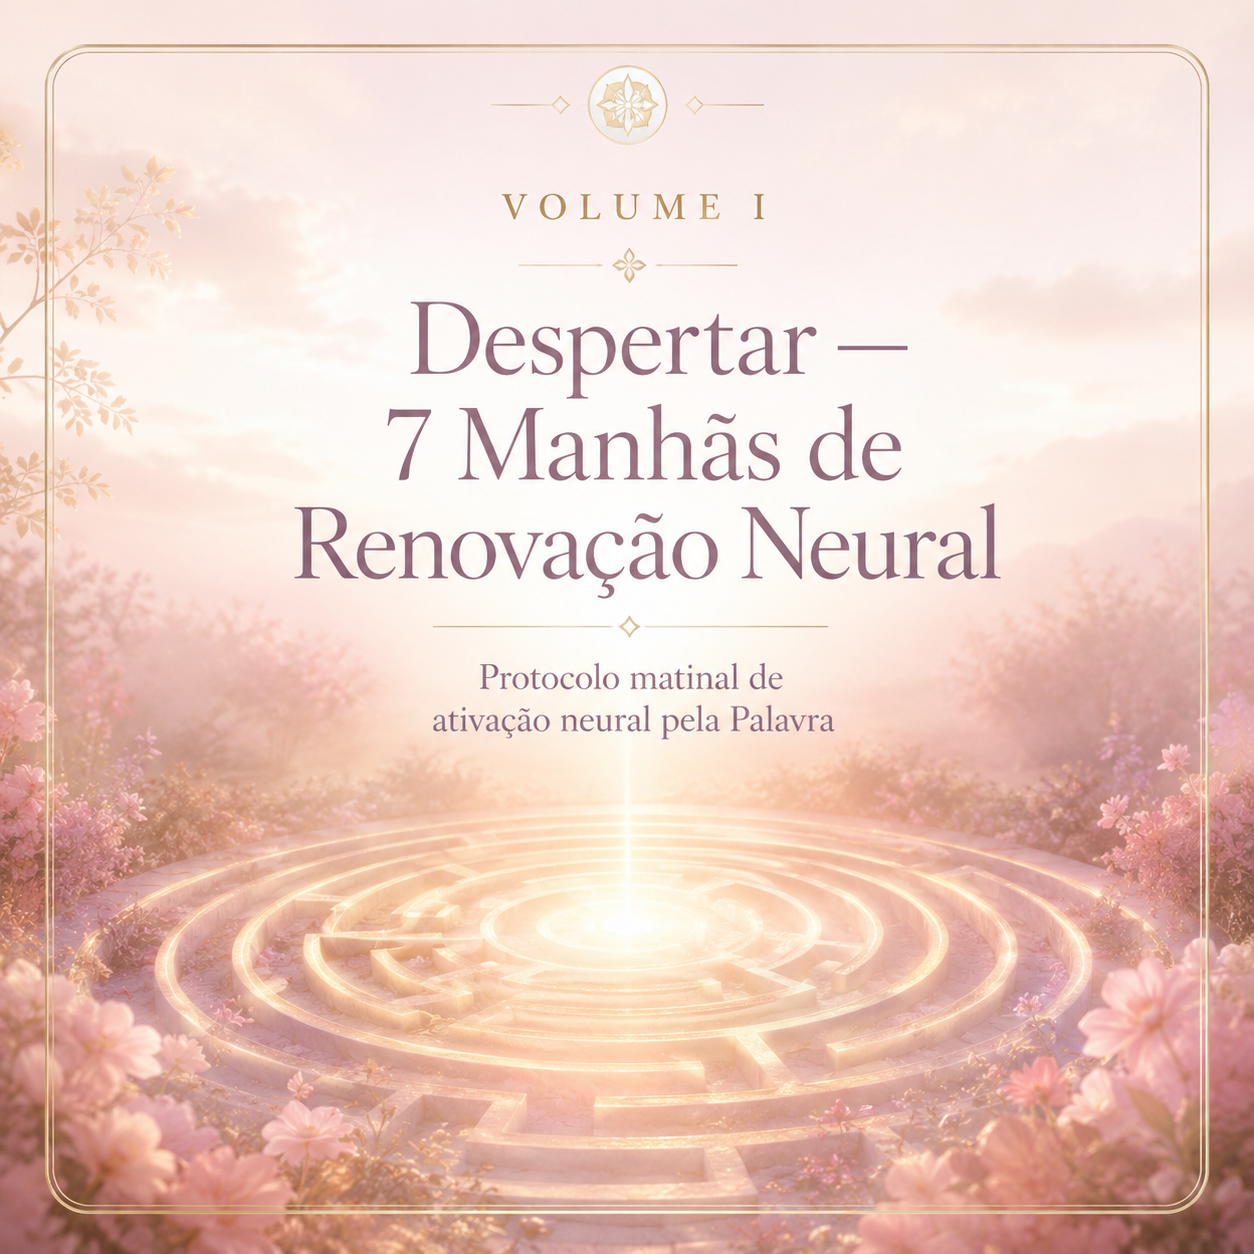
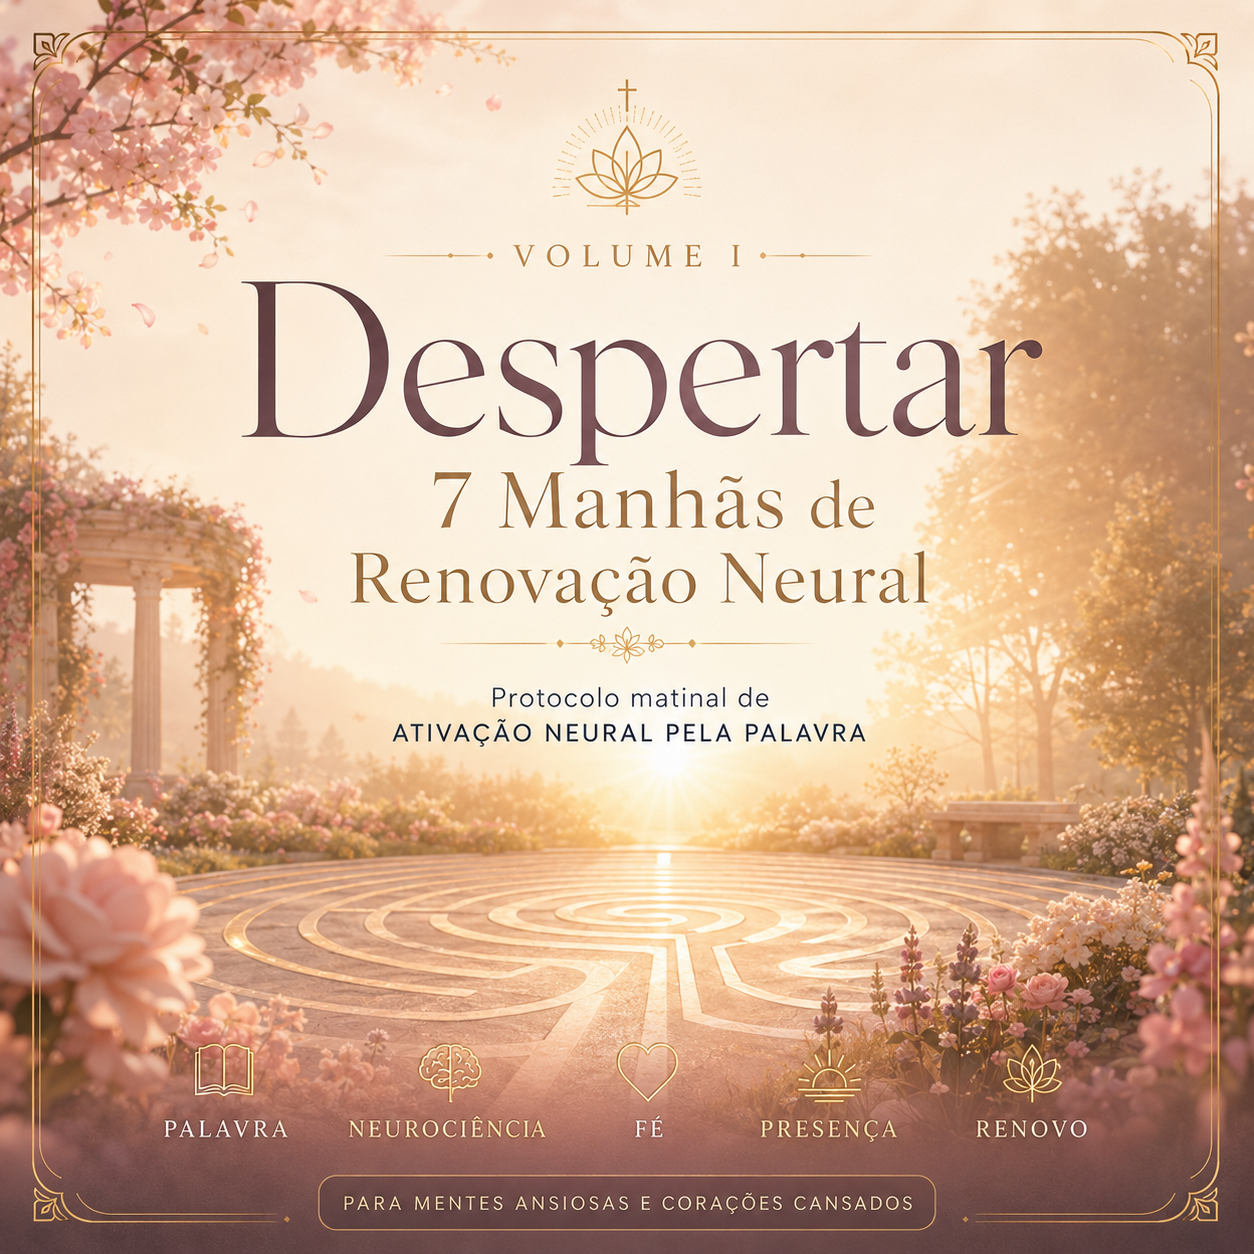
fix: mobile responsiveness — safe-area, stacking cards, volume cover
- Add viewport-fit=cover for notched iPhones
- BottomNav/MiniPlayer respect safe-area-inset-bottom
- "Próximo passo" cards stack vertically on mobile with full-width CTA
- Volume covers use aspect-[4/5] on mobile instead of square
- Update volume 1 cover image

diff --git a/src/routes/app.index.tsx b/src/routes/app.index.tsx
@@ -31,23 +31,25 @@ function PazHome() {
   return (
     <>
       {/* Continuar jornada */}
-      <div className="mt-5 rdp-fade-up rdp-light-card rounded-3xl p-5">
-        <div className="flex items-center gap-4">
-          <div className="grid h-12 w-12 shrink-0 place-items-center rounded-2xl border border-[color:var(--gold-warm)]/40 bg-white/70 text-[color:var(--gold-warm)]">
-            <Sparkles className="h-6 w-6" />
-          </div>
-          <div className="min-w-0 flex-1">
-            <p className="text-[10px] uppercase tracking-[0.22em] text-[color:var(--gold-warm)]">Próximo passo</p>
-            <p className="mt-0.5 truncate font-display text-lg text-[color:var(--deep-purple)]">
-              Olá{firstName ? `, ${firstName}` : ""} · <span className="italic text-[color:var(--amethyst)]">{arche.name}</span>
-            </p>
-            <p className="mt-0.5 text-[13px] text-[color:var(--amethyst)]">
-              Continue por <strong className="text-[color:var(--deep-purple)]">{nextTurno === "manha" ? "Volume I — Despertar" : "Volume II — Repouso"}</strong>
-            </p>
+      <div className="mt-5 rdp-fade-up rdp-light-card rounded-3xl p-4 sm:p-5">
+        <div className="flex flex-col gap-3 sm:flex-row sm:items-center sm:gap-4">
+          <div className="flex items-center gap-3 sm:gap-4 min-w-0 flex-1">
+            <div className="grid h-10 w-10 sm:h-12 sm:w-12 shrink-0 place-items-center rounded-2xl border border-[color:var(--gold-warm)]/40 bg-white/70 text-[color:var(--gold-warm)]">
+              <Sparkles className="h-5 w-5 sm:h-6 sm:w-6" />
+            </div>
+            <div className="min-w-0 flex-1">
+              <p className="text-[10px] uppercase tracking-[0.22em] text-[color:var(--gold-warm)]">Próximo passo</p>
+              <p className="mt-0.5 truncate font-display text-base sm:text-lg text-[color:var(--deep-purple)]">
+                Olá{firstName ? `, ${firstName}` : ""} · <span className="italic text-[color:var(--amethyst)]">{arche.name}</span>
+              </p>
+              <p className="mt-0.5 text-[12px] sm:text-[13px] text-[color:var(--amethyst)]">
+                Continue por <strong className="text-[color:var(--deep-purple)]">{nextTurno === "manha" ? "Volume I — Despertar" : "Volume II — Repouso"}</strong>
+              </p>
+            </div>
           </div>
           <button
             onClick={() => navigate({ to: "/app/volume/$turno", params: { turno: nextTurno } })}
-            className="inline-flex items-center gap-1.5 rounded-full bg-gradient-to-br from-[#E8C9A0] to-[#C9A876] px-4 py-2.5 text-[13px] font-semibold text-[#2C1F0B] shadow-[0_6px_20px_-8px_rgba(201,168,118,0.55)] hover:brightness-110"
+            className="inline-flex w-full sm:w-auto items-center justify-center gap-1.5 rounded-full bg-gradient-to-br from-[#E8C9A0] to-[#C9A876] px-4 py-2.5 text-[13px] font-semibold text-[#2C1F0B] shadow-[0_6px_20px_-8px_rgba(201,168,118,0.55)] hover:brightness-110"
           >
             Iniciar <ChevronRight className="h-4 w-4" />
           </button>
@@ -103,7 +105,7 @@ function VolumeCard({ to, img, eyebrow, title, subtitle, icon, tone, done }: {
       to="/app/volume/$turno" params={{ turno: to }}
       className="group block overflow-hidden rounded-3xl rdp-light-card rdp-light-card-hover rdp-fade-up"
     >
-      <div className="relative aspect-square w-full overflow-hidden">
+      <div className="relative aspect-[4/5] sm:aspect-square w-full overflow-hidden">
         <img src={img} alt={title} width={1024} height={1024} loading="lazy"
           className="h-full w-full object-cover transition duration-700 group-hover:scale-[1.04]" />
         <div className="absolute inset-0 bg-gradient-to-t from-black/30 via-transparent to-transparent" />

diff --git a/src/routes/app.volume.$turno.tsx b/src/routes/app.volume.$turno.tsx
@@ -106,21 +106,23 @@ function VolumePage() {
       </div>
 
       {/* Próximo */}
-      <div className="mt-6 rdp-light-card rounded-3xl p-5 rdp-fade-up">
-        <div className="flex items-center gap-4">
-          <div className="grid h-12 w-12 shrink-0 place-items-center rounded-2xl border border-[color:var(--gold-warm)]/40 bg-white/70 text-[color:var(--gold-warm)]">
-            {isMorning ? <Sun className="h-6 w-6" /> : <Moon className="h-6 w-6" />}
-          </div>
-          <div className="min-w-0 flex-1">
-            <p className="text-[10px] uppercase tracking-[0.22em] text-[color:var(--gold-warm)]">Próximo passo</p>
-            <p className="mt-0.5 truncate font-display text-lg text-[color:var(--deep-purple)]">
-              Dia {nextDay.day} — {nextDay.theme}
-            </p>
-            <p className="mt-0.5 text-[12px] text-[color:var(--amethyst)]">{nextDay.subtitle}</p>
+      <div className="mt-6 rdp-light-card rounded-3xl p-4 sm:p-5 rdp-fade-up">
+        <div className="flex flex-col gap-3 sm:flex-row sm:items-center sm:gap-4">
+          <div className="flex items-center gap-3 sm:gap-4 min-w-0 flex-1">
+            <div className="grid h-10 w-10 sm:h-12 sm:w-12 shrink-0 place-items-center rounded-2xl border border-[color:var(--gold-warm)]/40 bg-white/70 text-[color:var(--gold-warm)]">
+              {isMorning ? <Sun className="h-5 w-5 sm:h-6 sm:w-6" /> : <Moon className="h-5 w-5 sm:h-6 sm:w-6" />}
+            </div>
+            <div className="min-w-0 flex-1">
+              <p className="text-[10px] uppercase tracking-[0.22em] text-[color:var(--gold-warm)]">Próximo passo</p>
+              <p className="mt-0.5 truncate font-display text-base sm:text-lg text-[color:var(--deep-purple)]">
+                Dia {nextDay.day} — {nextDay.theme}
+              </p>
+              <p className="mt-0.5 text-[12px] text-[color:var(--amethyst)]">{nextDay.subtitle}</p>
+            </div>
           </div>
           <button
             onClick={() => setOpenDay(nextDay.day)}
-            className="inline-flex items-center gap-1.5 rounded-full bg-gradient-to-br from-[#E8C9A0] to-[#C9A876] px-4 py-2.5 text-[13px] font-semibold text-[#2C1F0B] shadow-[0_6px_20px_-8px_rgba(201,168,118,0.55)] hover:brightness-110"
+            className="inline-flex w-full sm:w-auto items-center justify-center gap-1.5 rounded-full bg-gradient-to-br from-[#E8C9A0] to-[#C9A876] px-4 py-2.5 text-[13px] font-semibold text-[#2C1F0B] shadow-[0_6px_20px_-8px_rgba(201,168,118,0.55)] hover:brightness-110"
           >
             {isMorning ? "Iniciar Ativação" : "Iniciar Selagem"}
           </button>

diff --git a/src/components/app/AppNav.tsx b/src/components/app/AppNav.tsx
@@ -85,7 +85,7 @@ function DesktopNav() {
 export function BottomNav() {
   const pathname = useRouterState({ select: (s) => s.location.pathname });
   return (
-    <nav className="fixed inset-x-0 bottom-0 z-30 border-t border-[color:var(--rose-dust)]/30 bg-white/90 backdrop-blur-xl md:hidden">
+    <nav className="fixed inset-x-0 bottom-0 z-30 border-t border-[color:var(--rose-dust)]/30 bg-white/90 backdrop-blur-xl md:hidden" style={{ paddingBottom: "env(safe-area-inset-bottom, 0px)" }}>
       <div className="mx-auto flex max-w-5xl items-stretch px-2 py-1.5">
         {items.map((it) => {
           const active = it.match(pathname);

diff --git a/src/components/app/player/MiniPlayer.tsx b/src/components/app/player/MiniPlayer.tsx
@@ -5,7 +5,7 @@ export default function MiniPlayer() {
   const { current, isPlaying, progress, toggle, next, setExpanded, close } = usePlayer();
   if (!current) return null;
   return (
-    <div className="fixed inset-x-0 bottom-16 z-30 mx-auto max-w-3xl px-3 sm:bottom-3">
+    <div className="fixed inset-x-0 z-30 mx-auto max-w-3xl px-3 sm:bottom-3" style={{ bottom: "calc(4rem + env(safe-area-inset-bottom, 0px))" }}>
       <div
         className="flex items-center gap-3 rounded-2xl border border-[color:var(--gold-warm)]/40 bg-white/95 px-3 py-2 shadow-[0_12px_30px_-12px_rgba(117,97,127,0.45)] backdrop-blur"
       >

diff --git a/src/routes/__root.tsx b/src/routes/__root.tsx
@@ -36,7 +36,7 @@ export const Route = createRootRouteWithContext<{ queryClient: QueryClient }>()(
   head: () => ({
     meta: [
       { charSet: "utf-8" },
-      { name: "viewport", content: "width=device-width, initial-scale=1" },
+      { name: "viewport", content: "width=device-width, initial-scale=1, viewport-fit=cover" },
       { title: "Rotina de Paz · Círculo da Paz" },
       { name: "description", content: "Método RP7 — sua jornada de paz interior guiada por fé e neurociência." },
       { name: "theme-color", content: "#443A52" },

diff --git a/src/routes/app.tsx b/src/routes/app.tsx
@@ -88,7 +88,7 @@ function AppShell() {
             navigate({ to: "/login" });
           }}
         />
-        <section className="mx-auto max-w-5xl px-4 pb-36 md:pb-28">
+        <section className="mx-auto max-w-5xl px-4 pb-36 md:pb-28" style={{ paddingBottom: "calc(9rem + env(safe-area-inset-bottom, 0px))" }}>
           <Outlet />
         </section>
         <MiniPlayer />